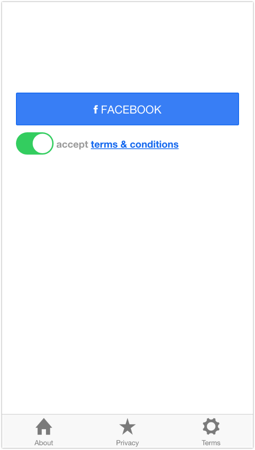
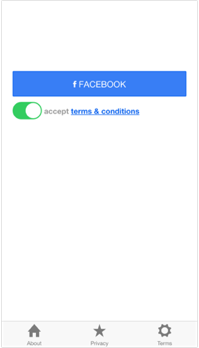
Fixing image sizes

diff --git a/app/_posts/2015-01-21-chapter-11.md b/app/_posts/2015-01-21-chapter-11.md
@@ -77,7 +77,7 @@ Lets choose one of our friends by clicking the 'ADD' button. We can also cancel 
 
 ![Help11](../img/screen_11.png)
 
-Ok, we are now £2.50 positive in our list:
+Ok, we are now £2.50 positive in our list, sometimes, we need to 'pull and refresh' to ensure we have the latest calculation updated:
 
 ![Help12](../img/screen_12.png)
 
